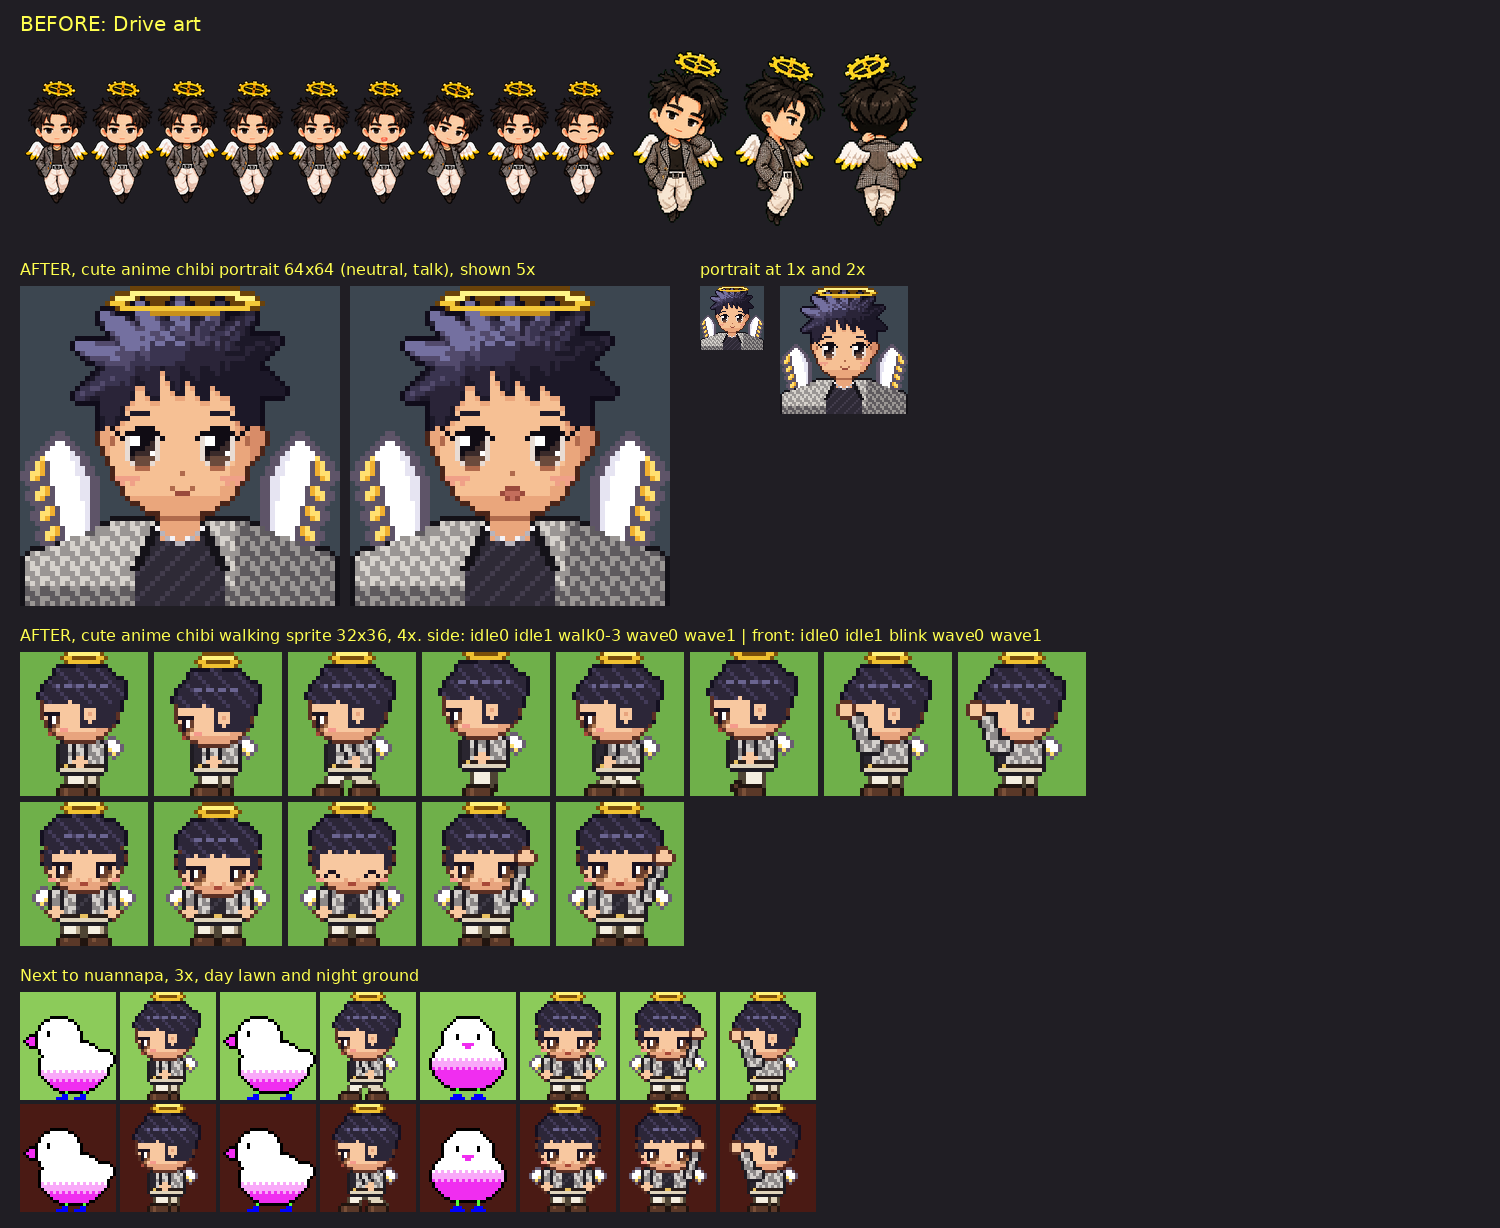
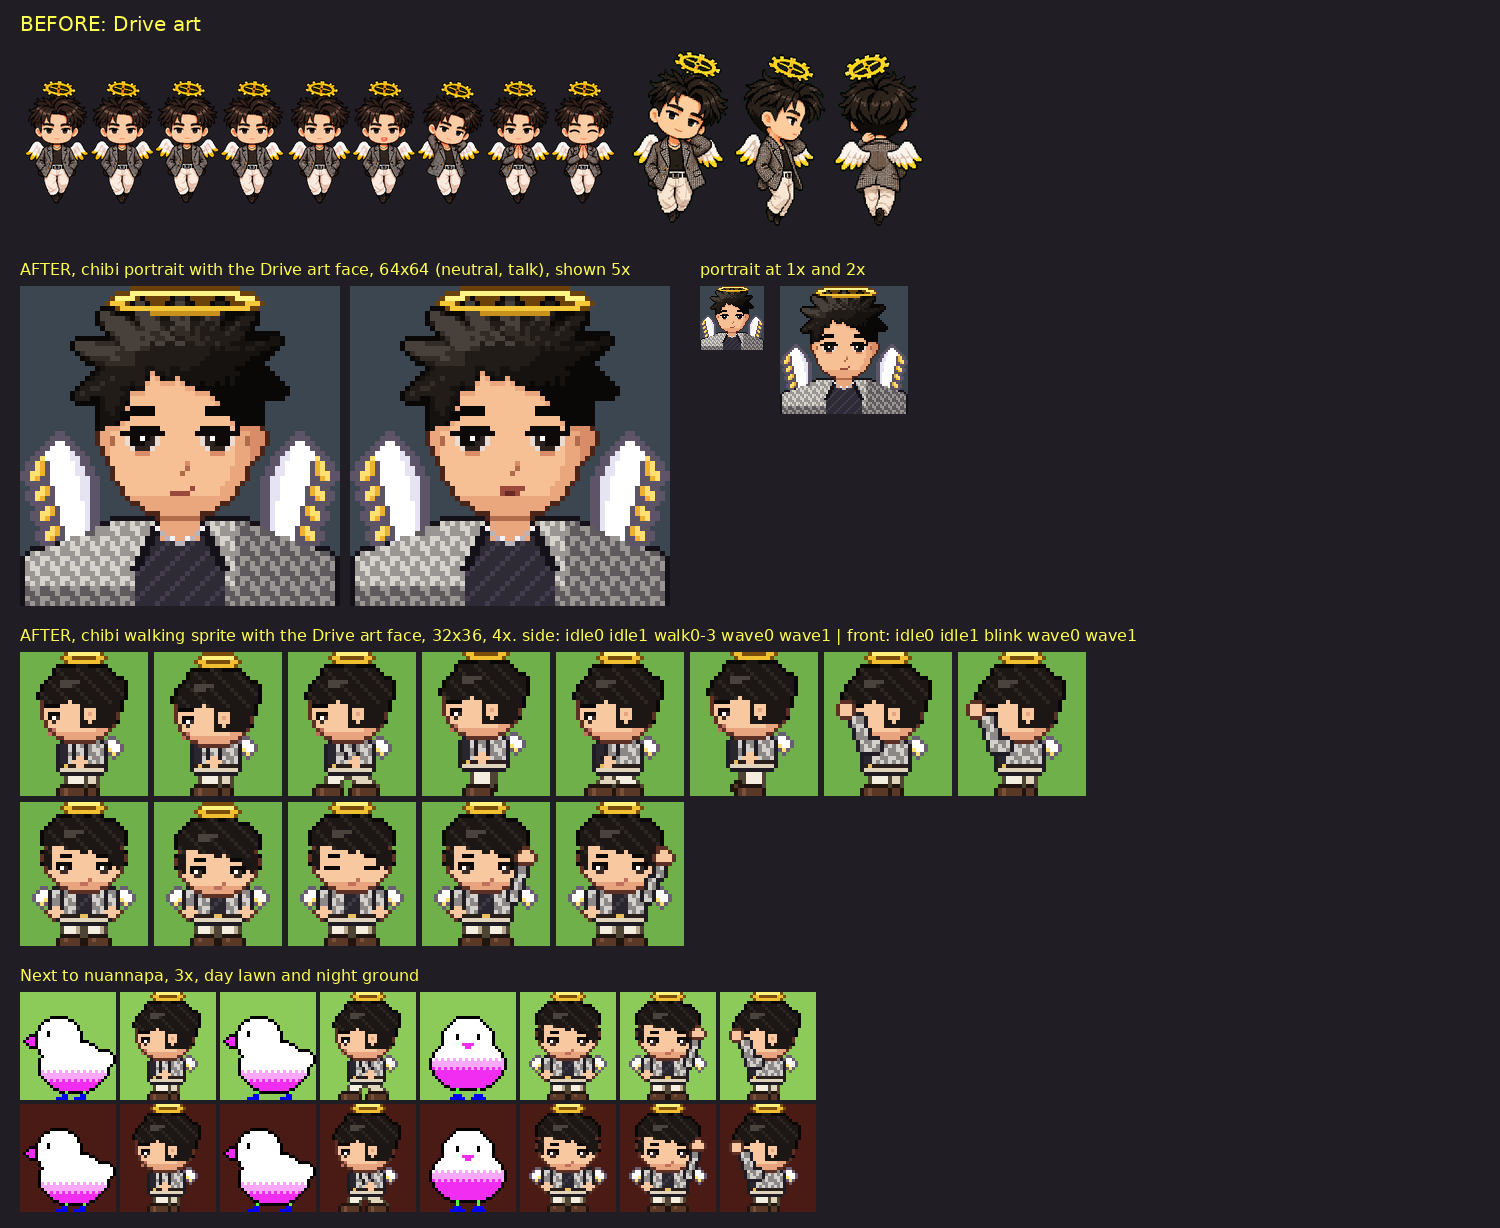
Scene 3: Jayimpacts face after the Drive art (owner)
Calm heavy-lidded eyes with dark irises, thick straight brows, a small
one-sided smile, no blush; near-black hair parted on one side and swept over
with a lock beside one eye. Same chibi body, frames and portrait size.

Claude-Session: https://claude.ai/code/session_01Fe5UomiUQN5FvRh91y8j5k

diff --git a/tools/jayimpacts_portrait.py b/tools/jayimpacts_portrait.py
@@ -1,10 +1,12 @@
-"""Jayimpacts dialogue portrait, cute anime chibi, Stardew Valley inspired (owner references)
+"""Jayimpacts dialogue portrait, chibi, Stardew Valley inspired, face after the Drive art (owner)
 -> src/assets/art/portraits/jayimpacts_portrait.png (64 x 64 design px, 2 frames:
 neutral, talk) at RENDER_SCALE x, nearest neighbour.
 
 Bust portrait like the Stardew Valley portraits: head and shoulders, light from the
 upper left, near-black tinted outline around the silhouette, 4-6 tones per material,
-hand-placed eyes (white catchlight, heavy upper lid), strong brows, a soft smile.
+hand-placed face after the Drive avatar: calm heavy-lidded eyes with dark irises, thick
+straight brows, a small one-sided smile, no blush; near-black hair parted on one side and
+swept over, with a lock falling beside one eye.
 Look from the Drive avatar: spiky black hair swept to one side, houndstooth jacket over
 a black tee, a thin chain, white wings with yellow tips behind the shoulders and a gold
 halo ring (plain ring, not the Drive gear).
@@ -26,7 +28,7 @@ C = {
     # skin ramp (outline .. highlight)
     'k0': '#4A2418', 'k1': '#B06A4C', 'k2': '#D88C68', 'k3': '#EAA67C', 'k4': '#F6C094', 'k5': '#FFDDB4',
     # hair ramp
-    'h0': '#100C1A', 'h1': '#1C1828', 'h2': '#2A2438', 'h3': '#3A3450', 'h4': '#524A6C', 'h5': '#7470A0',
+    'h0': '#0A0807', 'h1': '#16120F', 'h2': '#221C18', 'h3': '#332B26', 'h4': '#48403A', 'h5': '#605852',
     # jacket houndstooth (light, mid, dark, shade) + outline
     'j0': '#141218', 'j1': '#D6D2CC', 'j2': '#9A9694', 'j3': '#5E5A5E', 'j4': '#3C383E',
     # tee
@@ -34,9 +36,9 @@ C = {
     # chain
     'c1': '#B8B4BC', 'c2': '#F4F2F6',
     # eyes
-    'e0': '#100C14', 'e1': '#3A2A2A', 'e2': '#6A4A3C', 'ew': '#FFFFFF', 'es': '#E8DCD4',
+    'e0': '#0E0A0A', 'e1': '#2E2220', 'e2': '#4E3A30', 'ew': '#FFFFFF', 'es': '#E8DCD4',
     # mouth, blush
-    'm1': '#9A4A3C', 'm2': '#C46E5C', 'bl': '#F0A088',
+    'm1': '#9A4A3C', 'm2': '#6A2A22', 'bl': '#F0A088',
     # wings
     'w0': '#5E5468', 'w1': '#FFFFFF', 'w2': '#E6E4F2', 'w3': '#C4C0D8', 'y1': '#FFE070', 'y2': '#F0B030',
     # halo
@@ -155,9 +157,10 @@ CLUMPS = [
     ((40, 12), (46, 6), 4.6), ((43, 15), (51, 11), 4.4), ((21, 15), (12, 12), 4.4),
     # sides and sideburns
     ((20, 18), (12, 22), 4.0), ((44, 18), (52, 21), 4.0), ((19, 22), (17, 31), 3.4), ((45, 22), (47, 31), 3.4),
-    # fringe, soft clumps swept to the viewer's right, ending above the brows
-    ((22, 14), (21, 23), 3.4), ((25, 13), (27, 22), 3.6), ((30, 13), (32, 21), 3.6),
-    ((34, 13), (37, 22), 3.6), ((38, 14), (41, 21), 3.4), ((41, 15), (44, 23), 3.0),
+    # parted on the viewer's left and swept over to the right (forehead open on the
+    # left), with one long lock falling beside the right eye, as in the Drive art
+    ((23, 15), (20, 19), 3.0), ((27, 14), (30, 18), 3.4), ((31, 14), (36, 20), 3.6),
+    ((35, 14), (40, 22), 3.6), ((39, 15), (42, 24), 3.2), ((42, 16), (44, 28), 2.4), ((24, 15), (24, 20), 2.6),
 ]
 
 
@@ -207,7 +210,7 @@ def hair_colour(x, y):
     v = light + (1 - n) * 0.35 - (0.35 if n > 0.82 and i >= 0 else 0)
     if 6 <= y <= 12 and i >= 0 and 0.15 < n < 0.55 and (x + 2 * y) % 4:
         v += 0.25                                         # sheen strands on the crown
-    return ramp(v, ['h1', 'h1', 'h2', 'h2', 'h3', 'h4', 'h5'])
+    return ramp(v, ['h0', 'h1', 'h1', 'h2', 'h2', 'h3', 'h4'])
 
 
 def skin_colour(x, y):
@@ -247,24 +250,22 @@ def in_lapel_edge(x, y):
 
 
 # ---------------------------------------------------------------- features
-EYE_L = [  # big anime eye, 9 x 9: thick upper lash, sparkle in a dark iris, light at the bottom
-    '...aaaa..',
-    '.aaaaaaa.',
-    'aswwdddsa',
-    '.swwddis.',
+EYE_L = [  # calm heavy-lidded eye (Drive art), 9 x 6: thick upper lid, dark iris, small catchlight
+    '..aaaaaa.',
+    'aaaaaaaaa',
+    '.sddwdis.',
     '.sdddiis.',
-    '.sdiiiws.',
-    '.silllls.',
-    '..sllls..',
+    '..siiis..',
     '...kkk...',
 ]
-EYE_R = EYE_L  # same highlight side on both eyes (anime convention); lash flicks added per side
-EYE_LEG = {'a': 'e0', 's': 'es', 'w': 'ew', 'd': 'e0', 'i': 'e1', 'l': 'e2', 'k': 'k1'}
-BROW_L = ['.aaaa', 'a....']
-BROW_R = ['aaaa.', '....a']
+EYE_R = [r[::-1] for r in EYE_L]
+EYE_R[2] = '.siwddds.'  # catchlight stays on the upper left of the iris
+EYE_LEG = {'a': 'e0', 's': 'es', 'w': 'ew', 'd': 'e0', 'i': 'e1', 'l': 'e2', 'k': 'k2'}
+BROW_L = ['..aaaaa', 'aaaaaaa', 'aa.....']   # thick, straight, outer end slightly down
+BROW_R = [r[::-1] for r in BROW_L]
 MOUTH = {
-    'neutral': (['k...k', '.mmm.'], (30, 40)),
-    'talk': (['.mmm.', 'mrrrm', '.mrm.'], (30, 40)),
+    'neutral': (['.....m', '.mmmm.'], (29, 40)),        # small smile, one corner up
+    'talk': (['.mmmmm', '.mrrm.'], (29, 40)),
 }
 
 
@@ -338,18 +339,11 @@ def portrait(frame):
     pass
     cv.set(18, 30, 'k1'); cv.set(18, 31, 'k1'); cv.set(45, 30, 'k1'); cv.set(45, 31, 'k1')
     # face
-    cv.stamp(21, 25, BROW_L, {'a': 'h1'})
-    cv.stamp(38, 25, BROW_R, {'a': 'h1'})
+    cv.stamp(20, 24, BROW_L, {'a': 'h0'})
+    cv.stamp(37, 24, BROW_R, {'a': 'h0'})
     cv.stamp(20, 28, EYE_L, EYE_LEG)
     cv.stamp(35, 28, EYE_R, EYE_LEG)
-    cv.set(19, 29, 'e0'); cv.set(18, 28, 'e0')                       # outer lash flicks
-    cv.set(44, 29, 'e0'); cv.set(45, 28, 'e0')
-    cv.set(32, 37, 'k1')                                              # tiny nose
-    for bx in (19, 40):                                               # rosy cheeks with blush lines
-        for i in range(5):
-            cv.set(bx + i, 38, 'bl')
-        for i in (1, 3):
-            cv.set(bx + i, 39, 'bl')
+    cv.set(33, 35, 'k2'); cv.set(33, 36, 'k1'); cv.set(32, 37, 'k1')   # nose: a soft shade line
     rows, (mx, my) = MOUTH[frame]
     cv.stamp(mx, my, rows, {'m': 'm1', 'r': 'm2', 'k': 'k1'})
     return cv.image()

diff --git a/tools/jayimpacts_sprite.py b/tools/jayimpacts_sprite.py
@@ -7,9 +7,9 @@ Same cell and conventions as the bird costumes: 32 x 36 frames, feet on row 35, 
 view faces LEFT, sheets at RENDER_SCALE (3) x with nearest neighbour.
 
 Chibi proportions: a big round head (rows 3-21, well over half his height), a small
-body, short legs and round shoes. Big anime eyes (dark lash line, brown iris lighter at
-the bottom, white catchlight), rosy cheeks, a tiny smile. Soft rounded hair clumps with
-a sheen. Near-black tinted outline per material, three tones per material.
+body, short legs and round shoes. Face after the Drive art (owner): calm heavy-lidded
+eyes with dark irises, thick straight brows, a small one-sided smile; black hair parted
+on one side and swept over, with a lock falling beside one eye. Near-black tinted outline per material, three tones per material.
 
 Look from the Drive art: black hair swept to one side, grey houndstooth jacket over a
 black tee, belt with a gold buckle, cream trousers, brown shoes, small white wings with
@@ -40,10 +40,10 @@ ANIM = {
 }
 
 C = {
-    'h0': '#141020', 'h1': '#2C2638', 'h2': '#423A58', 'h3': '#6A6490',            # hair
+    'h0': '#0A0807', 'h1': '#1C1714', 'h2': '#2C2520', 'h3': '#4A423C',            # hair (black, Drive art)
     'k0': '#5C3024', 'k1': '#E8A47E', 'k2': '#F8C8A0', 'k3': '#FFE2C4',            # skin
-    'e0': '#1A1220', 'e1': '#6A3E2C', 'e2': '#B07850', 'ew': '#FFFFFF',            # eyes
-    'bl': '#F59A8C', 'm1': '#A84838',                                              # blush, mouth
+    'e0': '#0E0A0A', 'e1': '#3A2A24', 'e2': '#5A4034', 'ew': '#FFFFFF',            # eyes
+    'bl': '#F59A8C', 'm1': '#C0705C',                                              # blush, mouth
     'j0': '#1E1B22', 'j1': '#D4D0CC', 'j2': '#8C8888', 'j3': '#5A5658',            # jacket
     't1': '#2A2630', 't2': '#3E3A46', 'B': '#2A1E1A', 'g': '#E8C060',              # tee, belt
     'p0': '#4E4434', 'p1': '#F4EEE0', 'p2': '#E0D4BC', 'p3': '#B8A88E',            # trousers
@@ -126,8 +126,8 @@ def wing(g, side, x0, y0):
 
 def hair_colour(cy, x0, x1):
     def col(x, y):
-        if 0 < (y - (cy - 7)) < 2 and x0 <= x <= x1 and (x + y) % 3:
-            return 'h3'                                      # sheen band
+        if (y - (cy - 7)) in (0, 1) and x0 + 1 <= x <= x0 + 5 - (y - (cy - 7)) * 2:
+            return 'h3'                                      # short sheen on the lit side
         if y >= cy - 1:
             return 'h1'
         return 'h2' if (x - y) % 5 == 0 else 'h1'
@@ -139,9 +139,9 @@ def blobs(X, Y, pts, rx, ry):
 
 
 # ---------------------------------------------------------------- front
-EYE = ['oooo', 'ewAe', 'ewAA', 'eAAL', '.LL.']  # lash, sparkle inside a dark iris, lighter iris at the bottom
+EYE = ['oooo', 'ewAe', '.AA.']                 # calm heavy lid (Drive art), dark iris, small catchlight
 EYE_LEG = {'o': 'e0', 'w': 'ew', 'e': 'e0', 'A': 'e1', 'L': 'e2'}
-EYE_SHUT = ['....', '....', '.oo.', 'o..o', '....']  # happy closed eyes (^ ^)
+EYE_SHUT = ['....', 'oooo', '....']           # closed: lid line
 
 
 def front(frame):
@@ -181,7 +181,8 @@ def front(frame):
         X, Y = x + 0.5, y + 0.5
         cap = ((X - 16) / 10.4) ** 2 + ((Y - (cy - 4)) / 6.2) ** 2 <= 1 and Y <= cy - 3
         tufts = blobs(X, Y, ((10.5, cy - 8.6), (14.5, cy - 9.4), (19, cy - 9.2), (22.5, cy - 7.8)), 2.2, 1.6)
-        fringe = blobs(X, Y, ((9, cy - 3), (12.4, cy - 2.6), (16, cy - 3.2), (19.8, cy - 2.4), (23, cy - 2.8)), 2.2, 1.9)
+        fringe = blobs(X, Y, ((12.4, cy - 3.6), (16, cy - 3.0), (19.6, cy - 2.4), (22.6, cy - 1.6)), 2.2, 1.9)
+        fringe = fringe or (22.4 <= X <= 24.2 and cy - 2 <= Y <= cy + 2.4)   # lock beside his left eye
         sides = (6.2 <= X <= 8.2 or 23.8 <= X <= 25.8) and Y <= cy + 3 and ell(16, cy, 9.9, 8.7)(x, y)
         return cap or tufts or fringe or sides
     g.part(in_hair, hair_colour(cy, 10, 21), 'hair', over=False)
@@ -190,15 +191,11 @@ def front(frame):
     eye = EYE_SHUT if frame == 'blink' else EYE
     g.stamp(9, ey, eye, EYE_LEG)
     g.stamp(19, ey, eye, EYE_LEG)
-    if frame != 'blink':
-        g.set(8, ey, 'e0')                                   # outer lash flicks
-        g.set(23, ey, 'e0')
-    for x in (7, 8, 23, 24):
-        g.set(x, ey + 4, 'bl')
-    g.set(15, ey + 5, 'm1')
+    g.stamp(9, ey - 2, ['.aaa'], {'a': 'h0'})                # straight brows, a skin row above the lids
+    g.stamp(19, ey - 2, ['aaa.'], {'a': 'h0'})
+    g.set(15, ey + 5, 'm1')                                  # small smile, one corner up
     g.set(16, ey + 5, 'm1')
-    g.set(14, ey + 4, 'k1')                                  # smile corners
-    g.set(17, ey + 4, 'k1')
+    g.set(17, ey + 4, 'm1')
     if wave is not None:
         # his right arm raised (viewer's right): sleeve going up and out, round hand
         o = wave
@@ -273,11 +270,10 @@ def side(frame):
     g.part(in_hair, hair_colour(cy, 9, 21), 'hair', over=False)
     g.set(17, cy + 1, 'k1')                                   # ear detail
     ey = cy + 1
-    g.stamp(7, ey, ['ooo', 'ewA', 'ewA', 'eAL', '.L.'], EYE_LEG)
-    g.set(6, ey, 'e0')
-    g.set(10, ey + 4, 'bl')
-    g.set(11, ey + 4, 'bl')
+    g.stamp(7, ey, ['ooo', 'ewA', '.A.'], EYE_LEG)
+    g.stamp(6, ey - 2, ['aaaa'], {'a': 'h0'})               # brow
     g.set(7, ey + 5, 'm1')
+    g.set(8, ey + 4, 'm1')
     if p['arm'] is None:
         o = int(frame[-1])
         # near arm raised in front of him: sleeve up and forward, round hand

diff --git a/tools/jayimpacts_sheet.py b/tools/jayimpacts_sheet.py
@@ -41,14 +41,14 @@ def main():
     av = av.resize((av.width * 200 // av.height, 200), Image.LANCZOS)
     sheet.paste(av, (30 + ch.width, 40), av)
     y = 260
-    d.text((20, y), 'AFTER, cute anime chibi portrait 64x64 (neutral, talk), shown 5x', fill=Y, font=fs)
+    d.text((20, y), 'AFTER, chibi portrait with the Drive art face, 64x64 (neutral, talk), shown 5x', fill=Y, font=fs)
     paste(por[0], 20, y + 26, 5, (60, 70, 80, 255))
     paste(por[1], 350, y + 26, 5, (60, 70, 80, 255))
     d.text((700, y), 'portrait at 1x and 2x', fill=Y, font=fs)
     paste(por[0], 700, y + 26, 1, (60, 70, 80, 255))
     paste(por[0], 780, y + 26, 2, (60, 70, 80, 255))
     y2 = y + 26 + 320 + 20
-    d.text((20, y2), 'AFTER, cute anime chibi walking sprite 32x36, 4x. side: idle0 idle1 walk0-3 wave0 wave1 | front: idle0 idle1 blink wave0 wave1', fill=Y, font=fs)
+    d.text((20, y2), 'AFTER, chibi walking sprite with the Drive art face, 32x36, 4x. side: idle0 idle1 walk0-3 wave0 wave1 | front: idle0 idle1 blink wave0 wave1', fill=Y, font=fs)
     for i, fr in enumerate(jay_s):
         paste(fr, 20 + i * 134, y2 + 26, 4, (111, 176, 74, 255))
     for i, fr in enumerate(jay_f):
